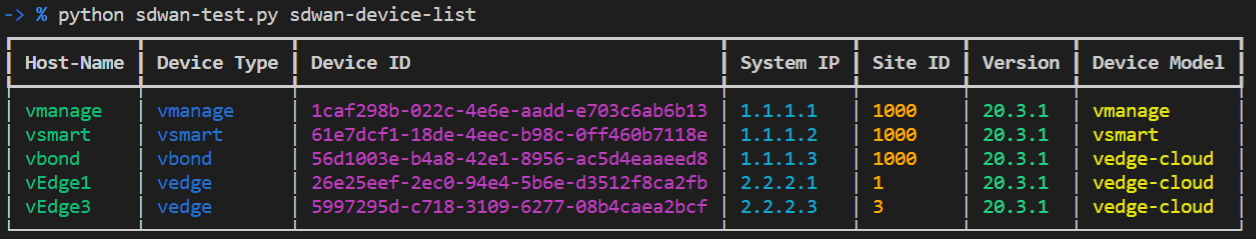
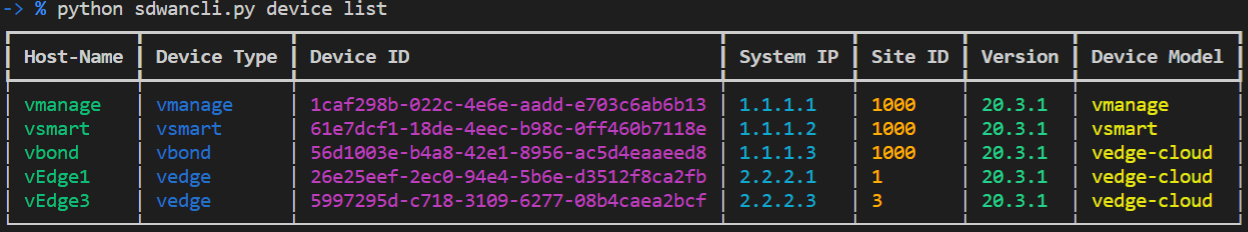
add template, device, bfd commands

diff --git a/vmanage/template.py b/vmanage/template.py
@@ -1,0 +1,145 @@
+import requests
+import urllib3
+import click
+import json
+from rich.console import Console
+from rich.table import Table
+from rich.text import Text
+from vmanage.authenticate import authentication
+from vmanage.constants import vmanage
+urllib3.disable_warnings(urllib3.exceptions.InsecureRequestWarning)
+
+
+@click.group(name="template")
+def cli_template():
+    """Commands to manage template: create, delete, list, show
+    """
+    pass
+
+
+@cli_template.command(name="list", help="Get template list")
+def template_list():
+    headers = authentication(vmanage)
+    base_url = "https://" + f'{vmanage["host"]}:{vmanage["port"]}/dataservice'
+    api = "/template/device"
+    url = base_url + api
+    response = requests.get(url=url, headers=headers, verify=False)
+    if response.status_code == 200:
+        items = response.json()['data']
+    else:
+        print("Failed to get list of devices " + str(response.text))
+        exit()
+    console = Console()
+    table = Table(
+        "Template Name", "Device Type", "Template ID",
+        "Attached devices", "Template version")
+
+    for item in items:
+        table.add_row(
+            f'[green]{item["templateName"]}[/green]',
+            f'[blue]{item["deviceType"]}[/blue]',
+            f'[magenta]{item["templateId"]}[/magenta]',
+            f'[orange1]{item["devicesAttached"]}[/orange1]',
+            f'[bright_yellow]{item["templateAttached"]}[/bright_yellow]')
+    console.print(table)
+
+
+@cli_template.command(name="create", help="Create a feature template")
+@click.option("--name", help="ID of the template you wish to delete")
+@click.option("--description", help="ID of the template you wish to delete")
+@click.option("--device_type", help="ID of the template you wish to delete")
+def create_template(name, description, device_type):
+    headers = authentication(vmanage)
+    base_url = "https://" + f'{vmanage["host"]}:{vmanage["port"]}/dataservice'
+    api = "/template/device/feature?api_key=/template/device"
+    url = base_url + api
+    payload = {
+        "templateName": name,
+        "templateDescription": description,
+        "deviceType": device_type,
+        "configType": "template",
+        "factoryDefault": "true",
+        "policyId": "",
+        "featureTemplateUidRange": [],
+        "generalTemplates": [
+            {
+                "templateId": "70fd00fe-cc5e-4e19-a730-538a77e758d5",
+                "templateType": "aaa"
+            },
+            {
+                "templateId": "99f10289-4795-4512-8955-007902bea884",
+                "templateType": "bfd-vedge"
+            },
+            {
+                "templateId": "1327de66-2eff-4e83-8787-0060675dc498",
+                "templateType": "omp-vedge"
+            },
+            {
+                "templateId": "24fb3c60-f4a5-4daf-9910-be477a046b9e",
+                "templateType": "security-vedge"
+            },
+            {
+                "templateId": "5fb744ed-3bbd-47d8-bec2-19b46c158fb5",
+                "templateType": "system-vedge",
+                "subTemplates": [
+                    {
+                        "templateId": "7eb31a03-0ad1-4bac-b89c-5b3012b6d09d",
+                        "templateType": "logging"
+                    }
+                ]
+            },
+            {
+                "templateId": "71294ac3-0aaa-4115-8995-476a91eac976",
+                "templateType": "vpn-vedge"
+            },
+            {
+                "templateId": "bbc09a4e-c91f-4dcf-a3ca-654a2f3bd135",
+                "templateType": "vpn-vedge"
+            }
+        ],
+        "templateClass": "vedge"
+
+    }
+    response = requests.post(
+        url=url, data=json.dumps(payload), headers=headers, verify=False)
+    if response.status_code == 200:
+        items = response.json()
+        text = Text.assemble(
+            ("Successful", "bold green"),
+            " create template with templateID = ",
+            (items["templateId"], "magenta"))
+        console = Console()
+        console.print(text)
+    else:
+        print(str(response.text))
+        exit()
+
+
+@cli_template.command(name="delete", help="Delete a feature template")
+@click.option("--template_id", help="ID of the template you wish to delete")
+def delete_template(template_id):
+    headers = authentication(vmanage)
+    base_url = "https://" + f'{vmanage["host"]}:{vmanage["port"]}/dataservice'
+    api = f"/template/device/{template_id}?api_key=/template/device"
+    url = base_url + api
+    response = requests.delete(url=url, headers=headers, verify=False)
+    if response.status_code == 200:
+        print("Succed to delete the template " + str(template_id))
+    else:
+        print("Failed to delete the template " + str(template_id))
+        exit()
+
+
+@cli_template.command(name="show", help="Show details of a feature template")
+@click.option("--template_id", help="ID of the template to show details")
+def show_template(template_id):
+    headers = authentication(vmanage)
+    base_url = "https://" + f'{vmanage["host"]}:{vmanage["port"]}/dataservice'
+    api = f"/template/device/object/{template_id}?api_key=/template/device"
+    url = base_url + api
+    response = requests.get(url=url, headers=headers, verify=False)
+    if response.status_code == 200:
+        print(json.dumps(response.json(), indent=4))
+    else:
+        print("Failed to show the template " + str(template_id))
+        exit()

diff --git a/vmanage/device.py b/vmanage/device.py
@@ -1,15 +1,22 @@
 import requests
 import urllib3
+import click
 from rich.console import Console
 from rich.table import Table
+from vmanage.constants import vmanage
 from vmanage.authenticate import authentication
 urllib3.disable_warnings(urllib3.exceptions.InsecureRequestWarning)
 
 
-def device_list(vmanage):
+@click.group(name="device")
+def cli_device():
+    """Commands to manage device: list, show, create
     """
-    Get device list
-    """
+    pass
+
+
+@cli_device.command(name="list", help="Get device list")
+def device_list():
     headers = authentication(vmanage)
     base_url = "https://" + f'{vmanage["host"]}:{vmanage["port"]}/dataservice'
     api = "/device"
@@ -33,33 +40,4 @@ def device_list(vmanage):
                       f'[orange1]{item["site-id"]}[/orange1]',
                       f'[bright_green]{item["version"]}[/bright_green]',
                       f'[yellow]{item["device-model"]}[/yellow]')
-    console.print(table)
-
-
-def template_list(vmanage):
-    """
-    Get template list
-    """
-    headers = authentication(vmanage)
-    base_url = "https://" + f'{vmanage["host"]}:{vmanage["port"]}/dataservice'
-    api = "/template/device"
-    url = base_url + api
-    response = requests.get(url=url, headers=headers, verify=False)
-    if response.status_code == 200:
-        items = response.json()['data']
-    else:
-        print("Failed to get list of devices " + str(response.text))
-        exit()
-    console = Console()
-    table = Table(
-        "Template Name", "Device Type", "Template ID",
-        "Attached devices", "Template version")
-
-    for item in items:
-        table.add_row(
-            f'[green]{item["templateName"]}[/green]',
-            f'[blue]{item["deviceType"]}[/blue]',
-            f'[magenta]{item["templateId"]}[/magenta]',
-            f'[orange1]{item["devicesAttached"]}[/orange1]',
-            f'[bright_yellow]{item["templateAttached"]}[/bright_yellow]')
     console.print(table)

diff --git a/vmanage/bfd.py b/vmanage/bfd.py
@@ -1,0 +1,44 @@
+import requests
+import urllib3
+import click
+from rich.console import Console
+from rich.table import Table
+from vmanage.constants import vmanage
+from vmanage.authenticate import authentication
+urllib3.disable_warnings(urllib3.exceptions.InsecureRequestWarning)
+
+
+@click.group(name="bfd")
+def cli_bfd():
+    """Commands monitor bfd sessions: link --state, summary
+    """
+    pass
+
+
+@cli_bfd.command(name="link", help="Get list of links with status: up or down")
+@click.option("--state", help="State of BFD connections")
+def connection_status(state):
+    headers = authentication(vmanage)
+    base_url = "https://" + f'{vmanage["host"]}:{vmanage["port"]}/dataservice'
+    api = f"/device/bfd/links?state={state}"
+    url = base_url + api
+    response = requests.get(url=url, headers=headers, verify=False)
+    if response.status_code == 200:
+        items = response.json()['data']
+    else:
+        print("Failed to get list of devices " + str(response.text))
+        exit()
+    console = Console()
+    table = Table(
+        "System IP 1", "Host-Name 1", "System IP 2", "Host-Name 2",
+        "Link", "Status", "Last Updated")
+
+    for item in items:
+        table.add_row(f'[green]{item["asystem-ip"]}[/green]',
+                      f'[blue]{item["ahost-name"]}[/blue]',
+                      f'[magenta]{item["bsystem-ip"]}[/magenta]',
+                      f'[cyan]{item["bhost-name"]}[/cyan]',
+                      f'[orange1]{item["linkKeyDisplay"]}[/orange1]',
+                      f'[bright_green]{item["state"]}[/bright_green]',
+                      f'[yellow]{item["lastupdated"]}[/yellow]')
+    console.print(table)

diff --git a/sdwancli.py b/sdwancli.py
@@ -1,0 +1,22 @@
+import urllib3
+import click
+from vmanage.device import cli_device
+from vmanage.template import cli_template
+from vmanage.bfd import cli_bfd
+urllib3.disable_warnings(urllib3.exceptions.InsecureRequestWarning)
+
+
+@click.group()
+def cli():
+    """Command line tool for deploying templates to CISCO SDWAN.
+    """
+    pass
+
+
+cli.add_command(cli_device)
+cli.add_command(cli_template)
+cli.add_command(cli_bfd)
+
+
+if __name__ == "__main__":
+    cli()

diff --git a/README.md b/README.md
@@ -1,16 +1,93 @@
 # sdwan-python-rest-api
 
 ## SD-WAN 20.3.1 in GNS3
+
+This public repo contains python code that can be used to interact with the Cisco SD-WAN vManage REST API. The environment is pre-configured to access my local SD-WAN lab in GNS3. 
+
+You can edit the variables in the `vmanage/constants.py` to point to your own vManage instance. 
+
+
 ### Topology
 
 ![Alt text](images/07_RG.png)
 
-### Test
+## Current functions
+The code contains REST API calls to authenticate and interact with Cisco SD-WAN vManage 20.3.1. Currently, it supports the following functions:
+```bash
+-> % python sdwancli.py         
+Usage: sdwancli.py [OPTIONS] COMMAND [ARGS]...
 
+  Command line tool for deploying templates to CISCO SDWAN.
+
+Options:
+  --help  Show this message and exit.
+
+Commands:
+  bfd       Commands monitor bfd sessions: link --state, summary
+  device    Commands to manage device: list, show, create
+  template  Commands to manage template: create, delete, list, show
+```
+
+And for each command, it support some subcommands, for example:
+
+```bash
+-> % python sdwancli.py template
+Usage: sdwancli.py template [OPTIONS] COMMAND [ARGS]...
+
+  Commands to manage template: create, delete, list, show
+
+Options:
+  --help  Show this message and exit.
+
+Commands:
+  create  Create a feature template
+  delete  Delete a feature template
+  list    Get template list
+  show    Show details of a feature template
+```
+
+## Requirements
+
+To use this code you will need:
+
+- Python 3.8+
+- vManage user login details. (User should have privilege level to configure policies)
+
+## Install and Setup
+Clone the code to local machine.
+```bash
+git clone https://github.com/kimdoanh89/sdwan-python-rest-api
+cd sdwan-python-rest-api
+```
+
+Setup Python Virtual Environment (requires Python 3.8+)
+```bash
+python3.8 -m venv venv
+source venv/bin/activate
+pip3 install -r requirements.txt
+```
+A .py file with the Cisco SD-WAN credentials has been created in `vmanage/constants.py`. You can edit the variables in the file to point to your own vManage instance.
+
+## Example 
 - Device list
+
+```bash
+python sdwancli.py device list
+```
 
 ![Alt text](images/01_device_list.png)
 
 - Template list
 
+```bash
+python sdwancli.py template list
+```
 ![Alt text](images/01_template_list.png)
+
+- BFD sessions monitor
+
+```bash
+python sdwancli.py bfd link --state up
+python sdwancli.py bfd link --state down
+```
+![Alt text](images/03_bfd_link_up_down.png)
